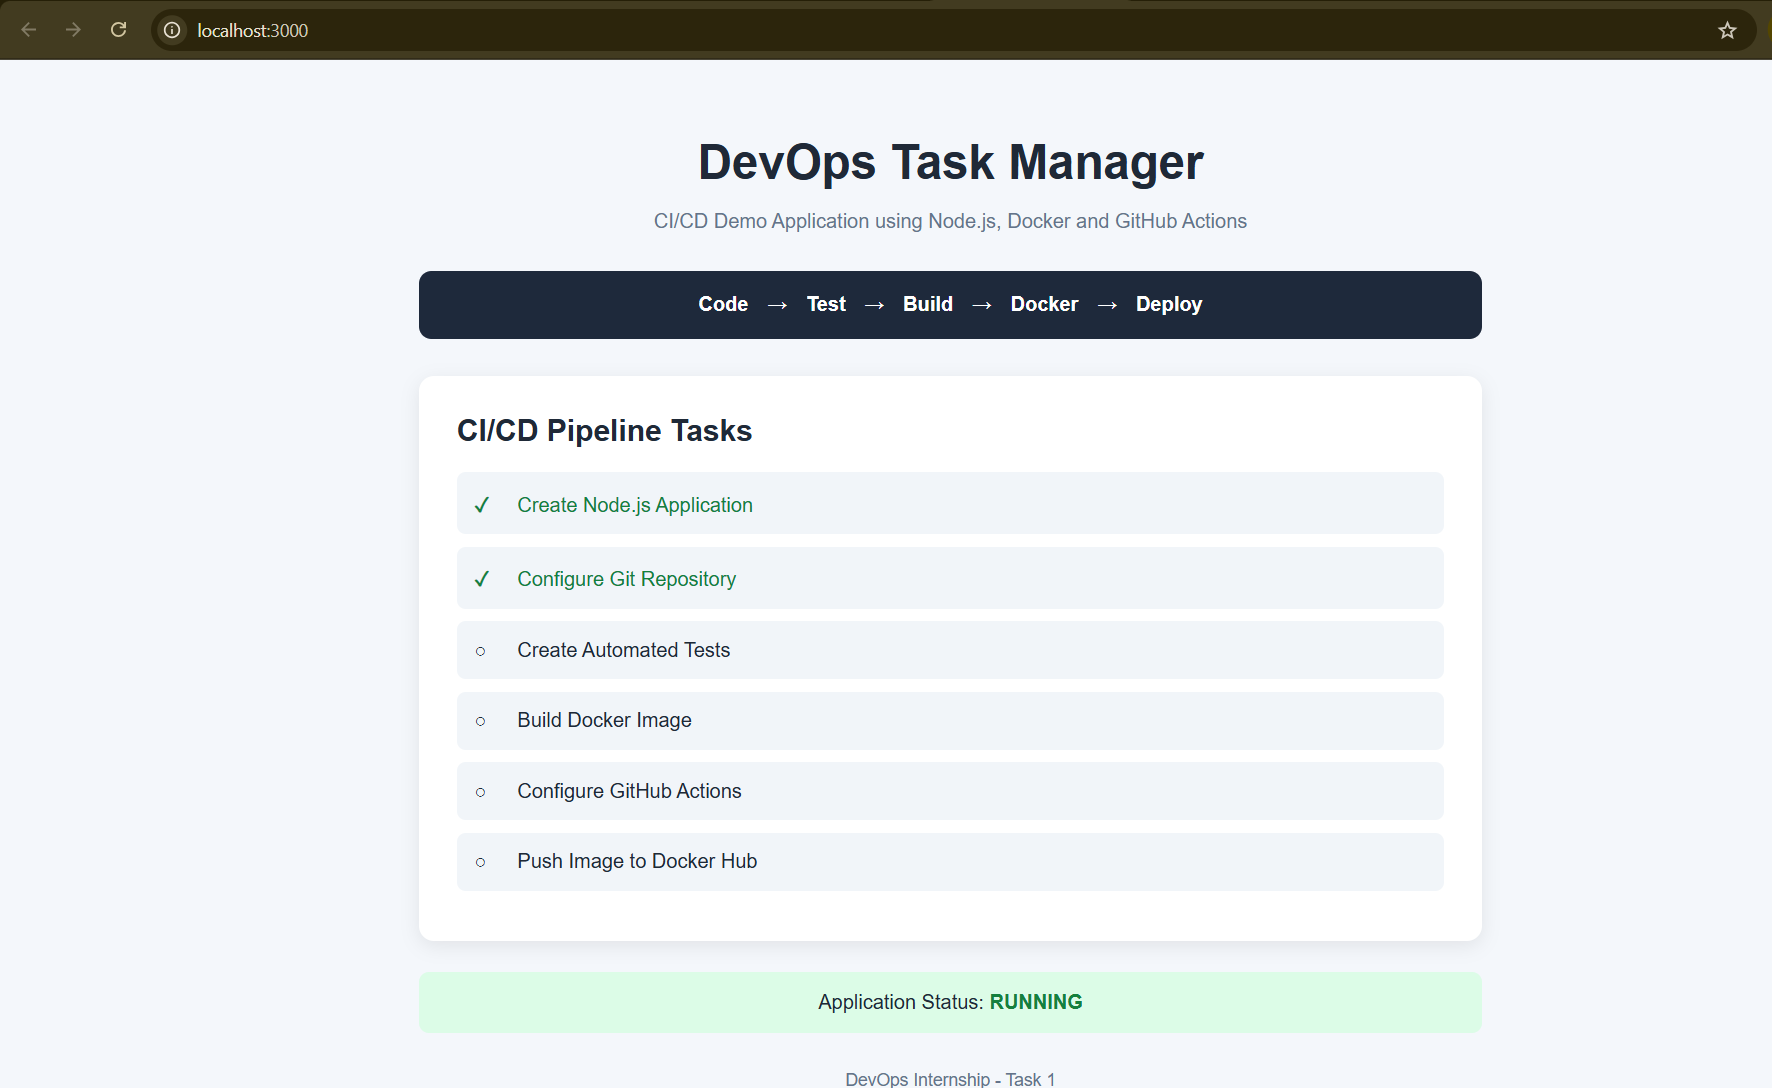
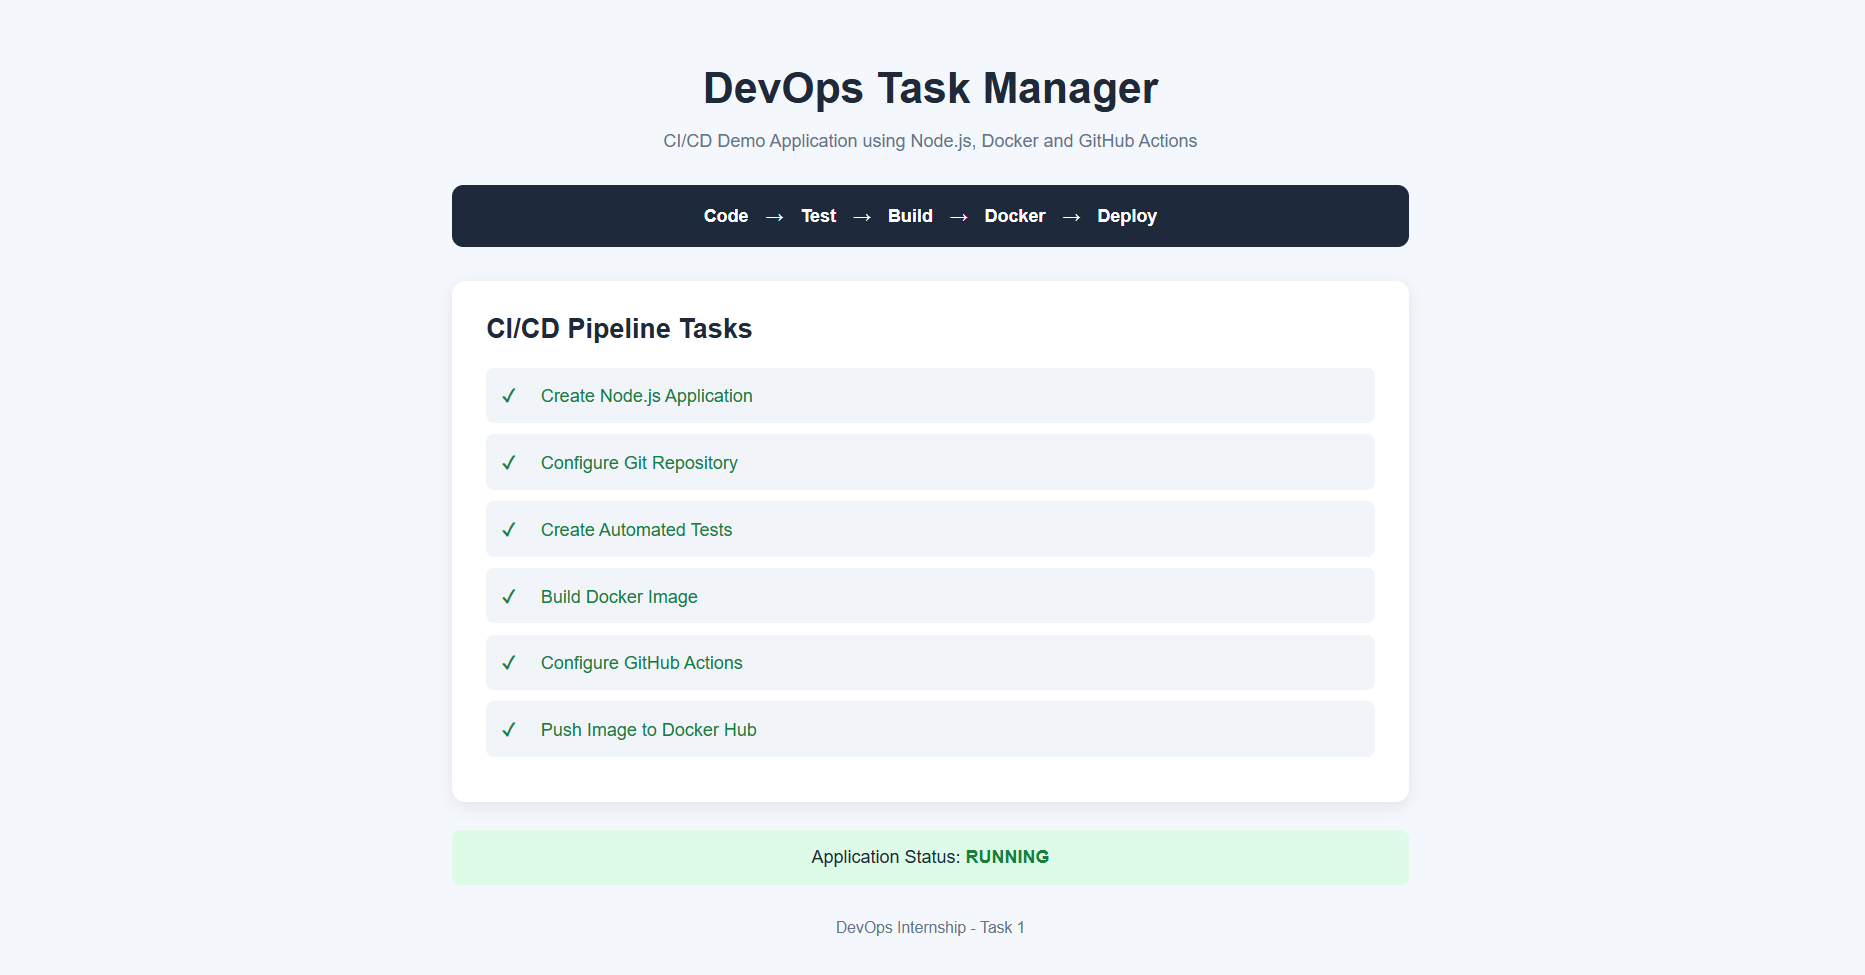
Update application screenshot and project evidence

diff --git a/README.md b/README.md
@@ -223,13 +223,19 @@ These secrets are securely referenced by the GitHub Actions workflow during Dock
 
 ### Application Running
 
+The application is successfully running after completing the CI/CD workflow.
+
 ![Application Running](screenshots/application-running.png)
 
 ### Successful GitHub Actions Pipeline
 
+The GitHub Actions workflow successfully runs automated tests, builds the Docker image, and pushes it to Docker Hub.
+
 ![GitHub Actions Pipeline](screenshots/github-actions-success.png)
 
 ### Docker Hub Images
+
+The Docker image is automatically published to Docker Hub after a successful CI/CD pipeline execution.
 
 ![Docker Hub Images](screenshots/dockerhub-images.png)
 
